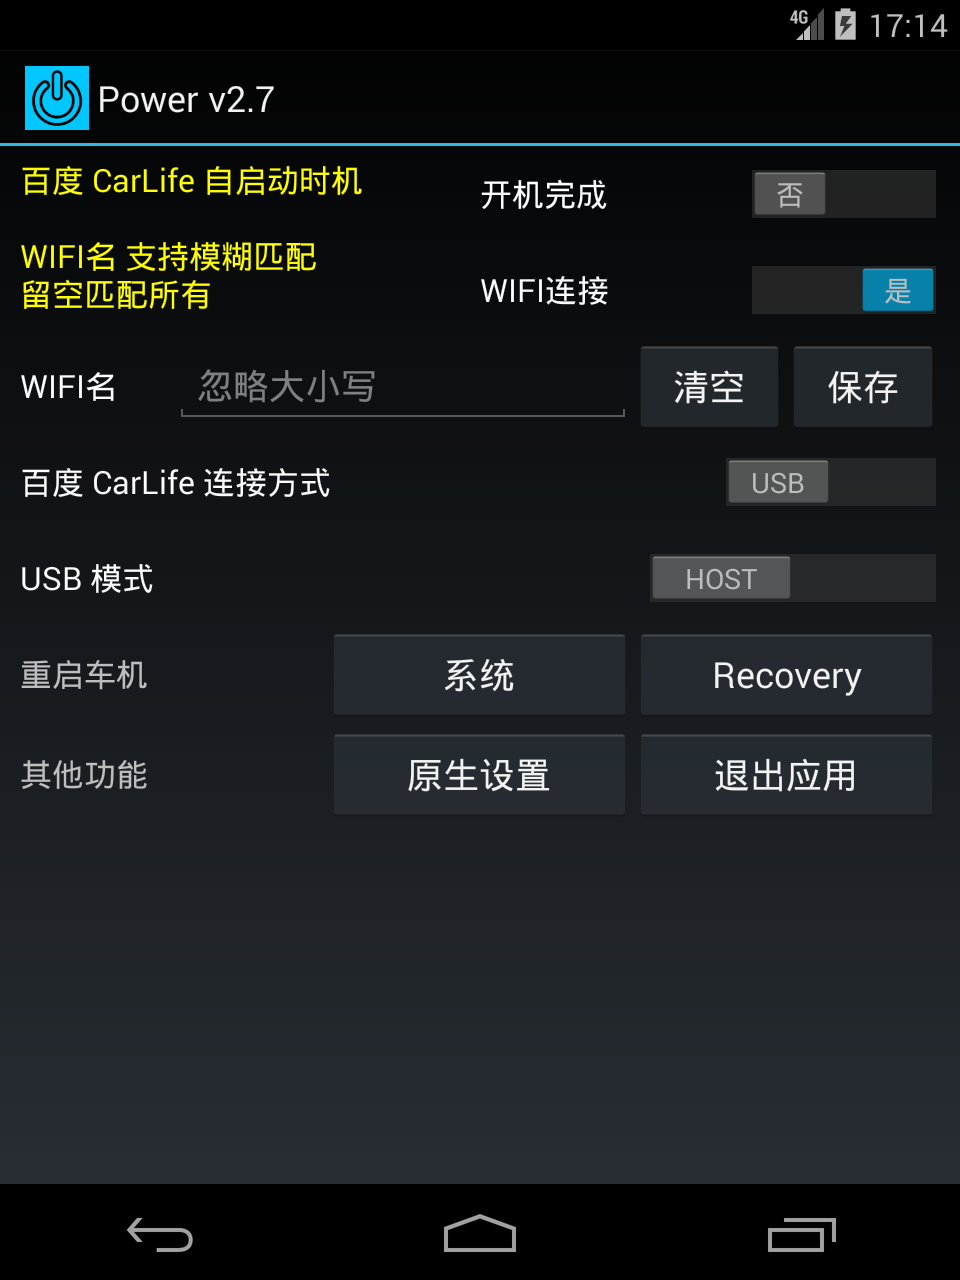
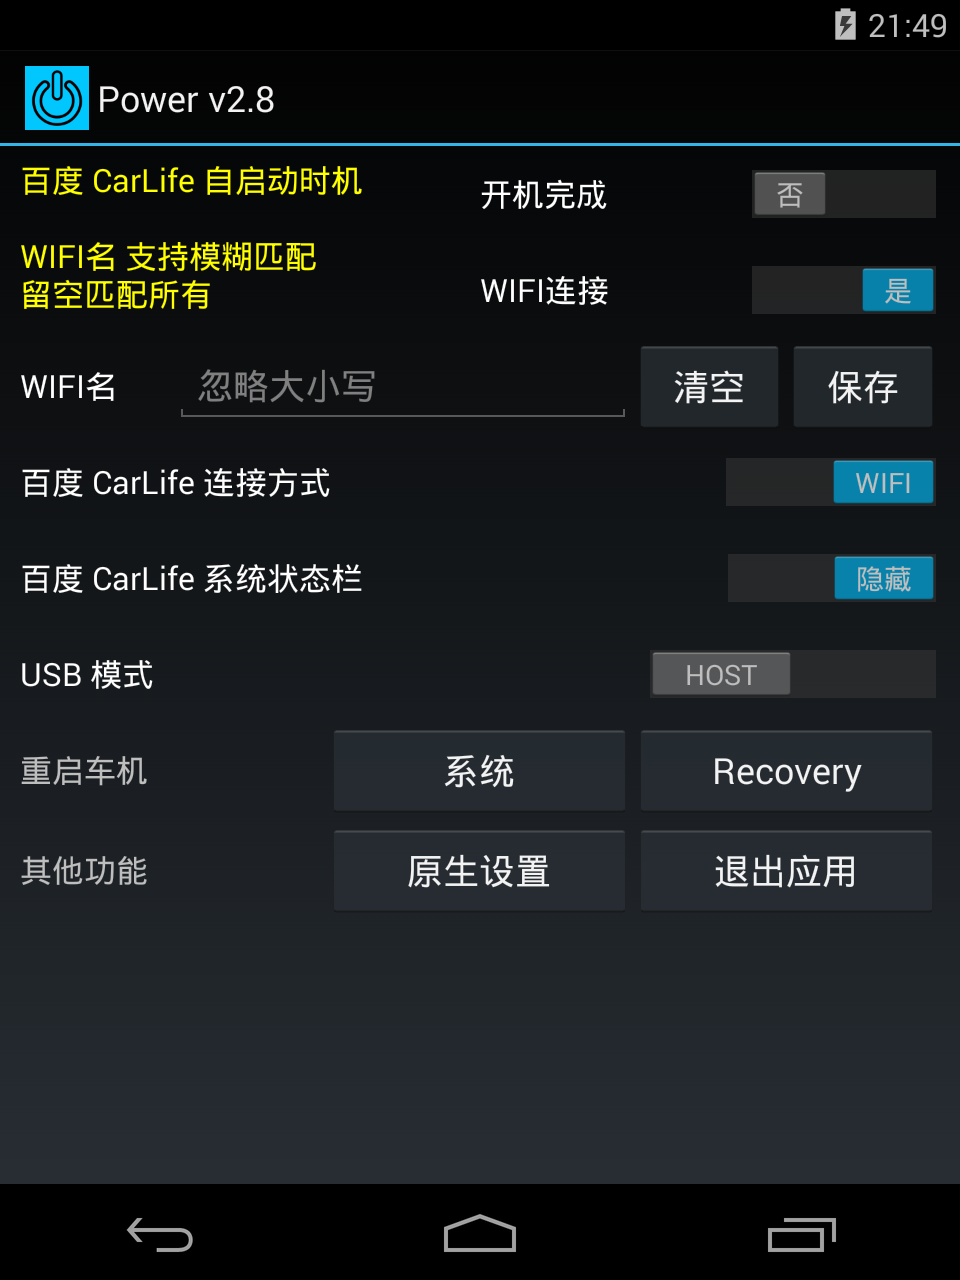
v2.8 增加百度 CarLife 系统状态栏显示/隐藏

diff --git a/app/src/main/java/com/guyuexuan/power/MainActivity.java b/app/src/main/java/com/guyuexuan/power/MainActivity.java
@@ -37,13 +37,15 @@ public class MainActivity extends Activity {
         Switch switchAutoOnBoot = (Switch) findViewById(R.id.switch_auto_on_boot);
         Switch switchAutoOnWifi = (Switch) findViewById(R.id.switch_auto_on_wifi);
         Switch switchCarlifeWifiMode = (Switch) findViewById(R.id.switch_carlife_wifi_mode);
+        Switch switchCarlifeHideStatusBar = (Switch) findViewById(R.id.switch_carlife_hide_status_bar);
         Switch switchUsbDeviceMode = (Switch) findViewById(R.id.switch_usb_device_mode);
         EditText editCarlifeWifiName = (EditText) findViewById(R.id.edit_carlife_wifi_ssid);
 
         // 设置开关状态
         switchAutoOnBoot.setChecked(ConfigManager.isAutoOnBoot);
         switchAutoOnWifi.setChecked(ConfigManager.isAutoOnWifi);
-        switchCarlifeWifiMode.setChecked(ConfigManager.isCarlifeWifiMode);
+        switchCarlifeWifiMode.setChecked(Settings.System.getInt(getContentResolver(), "CarLifeConnection", 0) == 1);
+        switchCarlifeHideStatusBar.setChecked(Settings.System.getInt(getContentResolver(), "CarLifeHideStatusBar", 0) == 1);
         switchUsbDeviceMode.setChecked(ConfigManager.isUsbDeviceMode);
         editCarlifeWifiName.setText(ConfigManager.strCarlifeWifiName);
 
@@ -65,14 +67,17 @@ public class MainActivity extends Activity {
         findViewById(R.id.btn_carlife_wifi_save).setOnClickListener(v -> {
             ConfigManager.strCarlifeWifiName = editCarlifeWifiName.getText().toString();
             ConfigManager.saveConfig();
+            Toast.makeText(MainActivity.this, "WIFI名 已保存过滤值: " + ConfigManager.strCarlifeWifiName, Toast.LENGTH_SHORT).show();
         });
         switchCarlifeWifiMode.setOnCheckedChangeListener((buttonView, isChecked) -> {
             Settings.System.putInt(getContentResolver(), "CarLifeConnection", isChecked ? 1 : 0);
-
-            ConfigManager.isCarlifeWifiMode = isChecked;
-            ConfigManager.saveConfig();
-
             String msg = "切换 百度 CarLife 连接方式: " + (isChecked ? "WIFI" : "USB");
+            Log.d(TAG, msg);
+            Toast.makeText(MainActivity.this, msg, Toast.LENGTH_SHORT).show();
+        });
+        switchCarlifeHideStatusBar.setOnCheckedChangeListener((buttonView, isChecked) -> {
+            Settings.System.putInt(getContentResolver(), "CarLifeHideStatusBar", isChecked ? 1 : 0);
+            String msg = "切换 百度 CarLife 系统状态栏: " + (isChecked ? "隐藏" : "显示");
             Log.d(TAG, msg);
             Toast.makeText(MainActivity.this, msg, Toast.LENGTH_SHORT).show();
         });
@@ -139,4 +144,16 @@ public class MainActivity extends Activity {
         findViewById(R.id.btn_finish).setOnClickListener(v -> finishAffinity());
 
     }
+
+//    @Override
+//    protected void onResume() {
+//        super.onResume();
+//        if (Settings.System.getInt(getContentResolver(), "CarLifeHideStatusBar", 0) == 1) { // 隐藏系统状态栏
+//            getWindow().addFlags(WindowManager.LayoutParams.FLAG_FULLSCREEN);
+//            getWindow().clearFlags(WindowManager.LayoutParams.FLAG_FORCE_NOT_FULLSCREEN);
+//        } else { // 显示系统状态栏
+//            getWindow().clearFlags(WindowManager.LayoutParams.FLAG_FULLSCREEN);
+//            getWindow().addFlags(WindowManager.LayoutParams.FLAG_FORCE_NOT_FULLSCREEN);
+//        }
+//    }
 }

diff --git a/app/src/main/java/com/guyuexuan/power/ConfigManager.java b/app/src/main/java/com/guyuexuan/power/ConfigManager.java
@@ -9,7 +9,6 @@ public class ConfigManager {
     // 静态成员：配置项
     public static boolean isAutoOnBoot = false; // 是否开机自动启动
     public static boolean isAutoOnWifi = false; // 是否开机自动连接Wifi设备
-    public static boolean isCarlifeWifiMode = false; // carlife 连接方式：true=wifi模式 false=usb模式
     public static boolean isUsbDeviceMode = false; // usb设备模式：true=Device模式 false=Host模式
     public static String strCarlifeWifiName = "";
 
@@ -37,7 +36,6 @@ public class ConfigManager {
     private static void loadConfig() {
         isAutoOnBoot = sSp.getBoolean("is_auto_on_boot", isAutoOnBoot);
         isAutoOnWifi = sSp.getBoolean("is_auto_on_wifi", isAutoOnWifi);
-        isCarlifeWifiMode = sSp.getBoolean("is_carlife_wifi_mode", isCarlifeWifiMode);
         isUsbDeviceMode = sSp.getBoolean("is_usb_device_mode", isUsbDeviceMode);
         strCarlifeWifiName = sSp.getString("str_carlief_wifi_name", strCarlifeWifiName);
     }
@@ -45,7 +43,6 @@ public class ConfigManager {
     public static void saveConfig() {
         sEditor.putBoolean("is_auto_on_boot", isAutoOnBoot);
         sEditor.putBoolean("is_auto_on_wifi", isAutoOnWifi);
-        sEditor.putBoolean("is_carlife_wifi_mode", isCarlifeWifiMode);
         sEditor.putBoolean("is_usb_device_mode", isUsbDeviceMode);
         sEditor.putString("str_carlief_wifi_name", strCarlifeWifiName);
         sEditor.apply();

diff --git a/Readme.md b/Readme.md
@@ -3,23 +3,31 @@
 北京现代库斯途车机相关 APK 软件。
 
 ## 适用车型
+
 北京现代 库斯途车机
 
 ## 安装教程
+
 从 [Releases](https://github.com/FanchangWang/custo_power/releases/latest) 下载已公签的 APK。
 通过侧边栏破解安装，[侧边栏破解教程(ix35跟库斯途通用)](https://www.dongchedi.com/ugc/article/7230446621241344524)
 
 ## 功能列表
-- 百度 CarLife 自启动：开机自启动、连接 WIFI 后自启动(支持模糊匹配)
-- 百度 CarLife 连接方式：切换 USB/WIFI 模式
+
+- 百度 CarLife 相关功能
+    + 自启动：开机自启动、连接 WIFI 后自启动(支持模糊匹配)
+    + 连接方式：切换 USB/WIFI 模式
+    + 系统状态栏：切换 隐藏/显示
 - USB 模式：切换 HOST/DEVICE 模式
 - 重启车机：系统重启、Recovery 模式重启
 - 其他功能：打开原生设置、退出应用
 
 ## 其他原装应用修改版
+
 - 百度 CarLife
-  + 竖屏全屏显示
-  + 自动重试连接
+    + 竖屏全屏显示
+    + 系统状态栏显示/隐藏
+    + 自动重试连接
 
 ## 预览图
+
 ![预览图](img/1.png)
